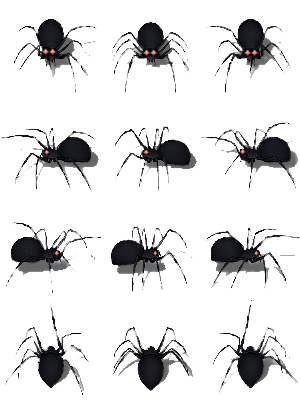
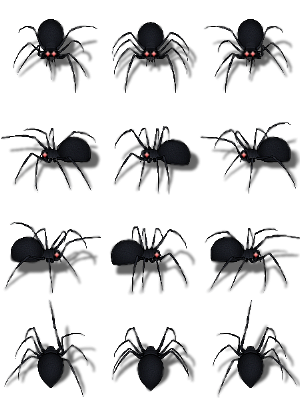
+ update spider.png

diff --git a/Torchase/Classes/Minions.cpp b/Torchase/Classes/Minions.cpp
@@ -27,7 +27,7 @@
 
 USING_NS_CC;
 
-Minions::Minions(Player* playerScene, float mapspeed,int type):  Actor("prefap/Minions/spider.jpg", Rect(100, 0, 100, 100))
+Minions::Minions(Player* playerScene, float mapspeed,int type):  Actor("prefap/Minions/spider.png", Rect(100, 0, 100, 100))
 {
 
 	this->type = type;
@@ -42,7 +42,7 @@ Minions::Minions(Player* playerScene, float mapspeed,int type):  Actor("prefap/M
 	EnemyBody->setDynamic(false);
 	this->setPhysicsBody(EnemyBody);
 	boolFind = false;
-	std::string minionname = "prefap/Minions/spider.jpg";
+	std::string minionname = "prefap/Minions/spider.png";
 	//animation
 	if (type == 0) {
 
